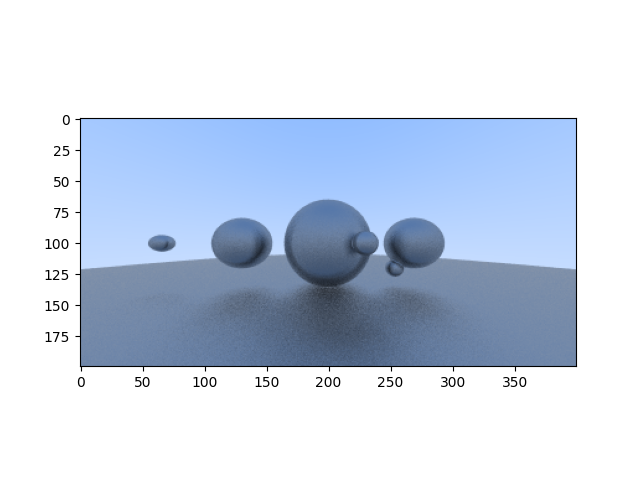
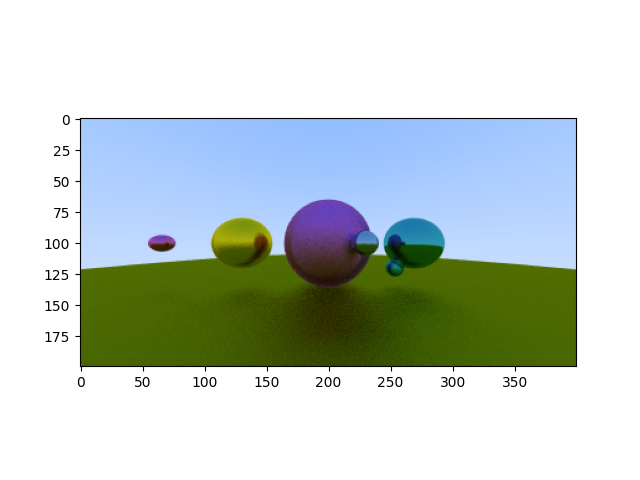
add sphere materials

Changed region(s): [[0.125, 0.4062, 0.9062, 0.7812]]

diff --git a/python/rt/rt_vectorized/__init__.py b/python/rt/rt_vectorized/__init__.py
@@ -22,6 +22,8 @@ class Rays:
 class Spheres:
     centers: npt.NDArray
     radia: npt.NDArray[np.float64]
+    fuzzes: npt.NDArray[np.float64]
+    colors: npt.NDArray
 
 
 @frozen
@@ -70,15 +72,24 @@ class Camera:
 class SceneBuilder:
 
     centers: list[Vector3] = field(factory=list)
-    radia: list[np.float64] = field(factory=list)
+    radia: list[float] = field(factory=list)
+    fuzzes: list[float] = field(factory=list)
+    colors: list[Vector3] = field(factory=list)
 
     def add_sphere(self, cx: float, cy: float, cz: float, r: float) -> SceneBuilder:
         self.centers.append(np.array([cx, cy, cz]))
-        self.radia.append(np.float64(r))
+        self.radia.append(r)
+        self.fuzzes.append(np.random.random())
+        self.colors.append(np.random.random(3))
         return self
 
     def create(self) -> Spheres:
-        return Spheres(np.array(self.centers), np.array(self.radia))
+        return Spheres(
+            np.array(self.centers),
+            np.array(self.radia),
+            np.array(self.fuzzes),
+            np.array(self.colors)
+        )
 
     def camera(self) -> Camera:
         return Camera(self.create(), jitter_passes=64)
@@ -145,11 +156,14 @@ def hit(rays: Rays, spheres: Spheres, max_depth: int = 32) -> npt.NDArray:
         env[updated] = hit(
             Rays(
                 origins=hitpoints[updated],
-                directions=fuzzy_reflect(rays.directions[updated], normals[updated])
+                directions=fuzzy_reflect(
+                    rays.directions[updated],
+                    normals[updated],
+                    spheres.fuzzes[indices[updated] - 1, np.newaxis])
             ),
             spheres=spheres,
             max_depth=max_depth - 1
-        ) / 1.5
+        ) * spheres.colors[indices[updated] - 1]
     return env
 
 
@@ -161,7 +175,7 @@ def reflect(directions: npt.NDArray, normals: npt.NDArray) -> npt.NDArray:
     return normalize(reflect_direction)
 
 
-def fuzzy_reflect(directions: npt.NDArray, normals: npt.NDArray, fuzz: float = 0.7) -> npt.NDArray:
+def fuzzy_reflect(directions: npt.NDArray, normals: npt.NDArray, fuzz: float | npt.NDArray = 0.7) -> npt.NDArray:
     reflect_direction = (
         directions -
         2 * normals *
